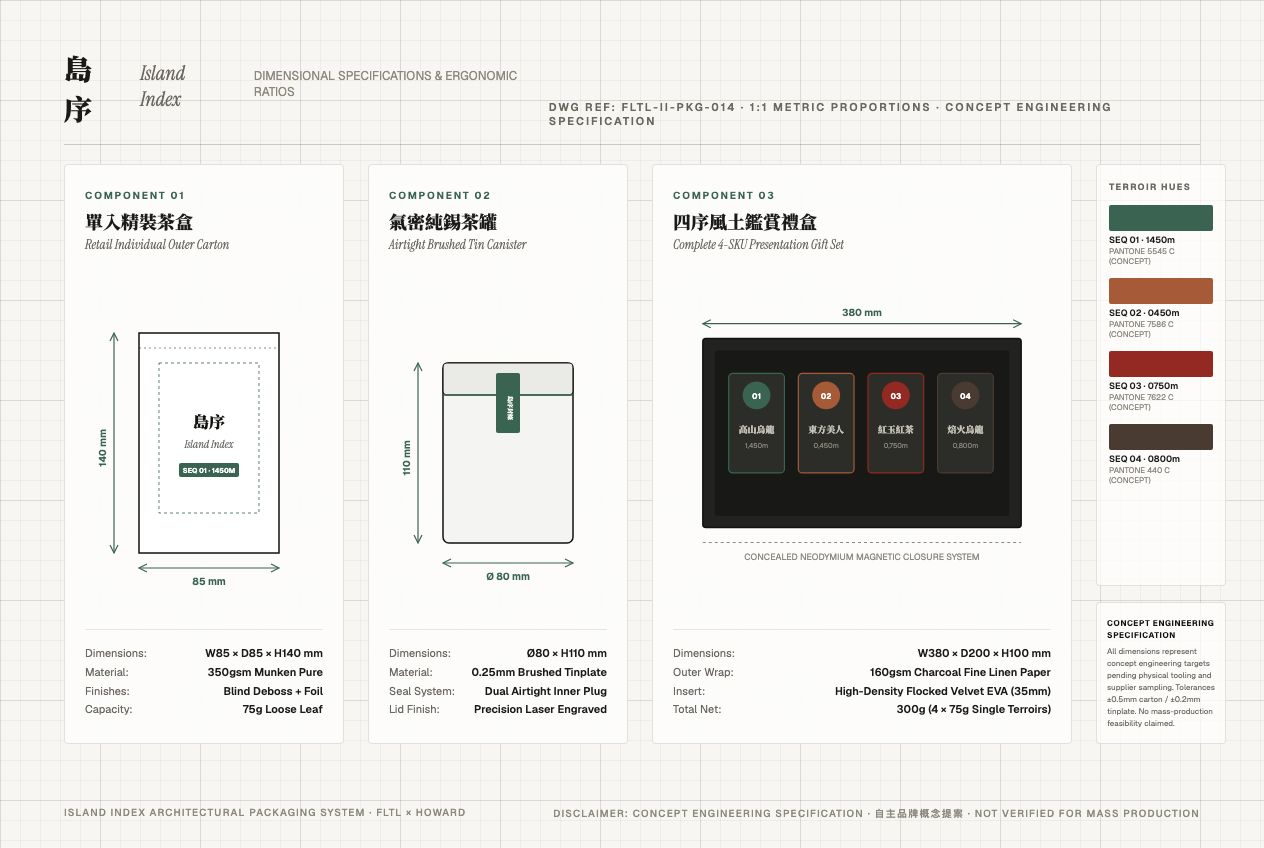
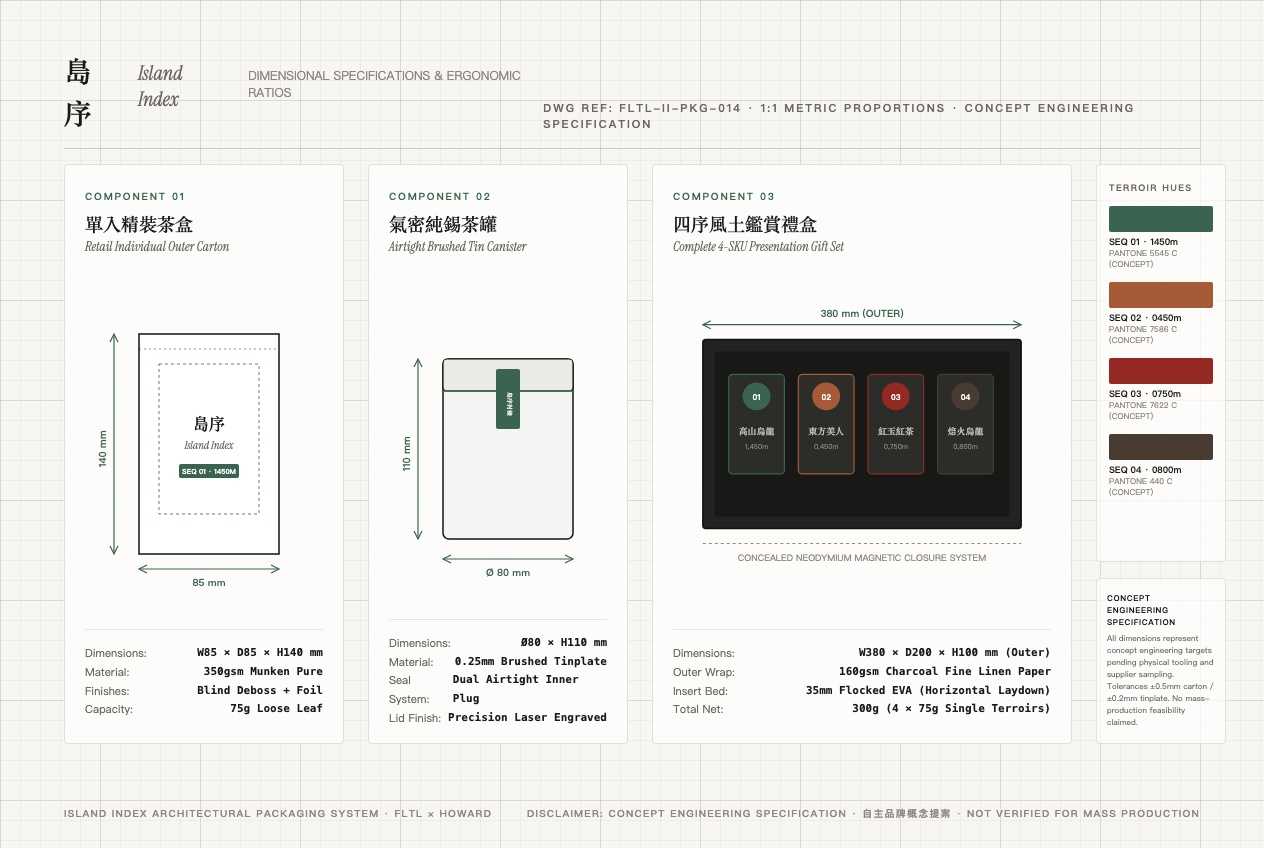
fix(brand): final engineering consistency verification for gift box layout and SKU naming
- Clarify gift box W380xD200xH100mm as outer dimensions with horizontal laydown cradle fit in SHOT 14, PRODUCT_AUDIT.md
- Standardize SEQ 04 product name strictly as 焙火烏龍 (Roasted Oolong) across case study, clarifying charcoal roasting as craft process
- Update SHOT 14 render and master visual contact sheet

diff --git a/brand/island-index/assets/mockups/shot-14-scale-proportions.html b/brand/island-index/assets/mockups/shot-14-scale-proportions.html
@@ -271,7 +271,7 @@
           <line x1="30" y1="40" x2="350" y2="40" stroke="#3A6351" stroke-width="1.2" />
           <polyline points="38,36 30,40 38,44" fill="none" stroke="#3A6351" stroke-width="1.2" />
           <polyline points="342,36 350,40 342,44" fill="none" stroke="#3A6351" stroke-width="1.2" />
-          <text x="190" y="32" font-family="'Geist', sans-serif" font-size="10" font-weight="700" fill="#3A6351" text-anchor="middle">380 mm</text>
+          <text x="190" y="32" font-family="'Geist', sans-serif" font-size="10" font-weight="700" fill="#3A6351" text-anchor="middle">380 mm (OUTER)</text>
 
           <!-- Box Outer Form -->
           <rect x="30" y="55" width="320" height="190" rx="3" fill="#222220" stroke="#121210" stroke-width="1.5" />
@@ -315,9 +315,9 @@
       </div>
 
       <div class="spec-table">
-        <div class="spec-row"><span class="spec-k">Dimensions:</span><span class="spec-v">W380 × D200 × H100 mm</span></div>
+        <div class="spec-row"><span class="spec-k">Dimensions:</span><span class="spec-v">W380 × D200 × H100 mm (Outer)</span></div>
         <div class="spec-row"><span class="spec-k">Outer Wrap:</span><span class="spec-v">160gsm Charcoal Fine Linen Paper</span></div>
-        <div class="spec-row"><span class="spec-k">Insert:</span><span class="spec-v">High-Density Flocked Velvet EVA (35mm)</span></div>
+        <div class="spec-row"><span class="spec-k">Insert Bed:</span><span class="spec-v">35mm Flocked EVA (Horizontal Laydown)</span></div>
         <div class="spec-row"><span class="spec-k">Total Net:</span><span class="spec-v">300g (4 × 75g Single Terroirs)</span></div>
       </div>
     </div>

diff --git a/brand/island-index/index.html b/brand/island-index/index.html
@@ -372,7 +372,7 @@
               <h3 class="sku-name-zh">焙火烏龍</h3>
               <div class="sku-name-en">Roasted Oolong</div>
               <p style="font-size: 12px; color: var(--text-secondary); line-height: 1.6; margin-bottom: 16px;">
-                <span class="lang-zh">鹿谷凍頂正統龍眼木炭焙烏龍。經中度發酵與多道文火細焙，茶湯溫潤醇厚，蘊含炒麥、焦糖與熟果沉香。</span>
+                <span class="lang-zh">鹿谷凍頂正統焙火烏龍。傳承龍眼木炭火慢焙工藝，經中度發酵與多道文火細焙，茶湯溫潤醇厚，蘊含炒麥、焦糖與熟果沉香。</span>
                 <span class="lang-en">Traditional longan charcoal roasted oolong from Dongding, Lugu. Slow gentle roasting develops warm caramel malt, roasted timber, and deep stone fruit finish.</span>
               </p>
               <div class="sku-specs-list">

diff --git a/brand/island-index/PRODUCT_AUDIT.md b/brand/island-index/PRODUCT_AUDIT.md
@@ -25,7 +25,7 @@
 7. **防偽與裝飾戳記界定 (Graphic Seals & Disclaimers)**：
    包裝與圖稿中所出現之「島序」、「極選」或裝飾印鑑，純屬平面視覺編排與防偽美學呈現（Decorative Graphic Seals），絕非經農業部茶葉改良場、產銷履歷、有機驗證、ISO 認證或競賽特等獎之法定驗證背書。所有相關數值與標籤一律標註為「Concept Specification / 概念規格」。
 8. **包裝工程規格與公差界定 (Concept Engineering Specification)**：
-   外盒尺寸（W85 × D85 × H140 mm）、圓罐外徑及高度（Ø80 × H110 mm，容裝 75g 散茶）、四入禮盒尺寸（W380 × D200 × H100 mm，容納四罐總淨重 300g）等幾何規格，均為設計提案階段之 **「概念工程規格（Concept Engineering Specification）」**。雖經空間幾何與安全間隙（單入四周間隙 2.5mm、禮盒內襯槽距 8–10mm）核算吻合，但在取得實體刀模打樣與包裝製造商物理量產確認前，嚴禁宣稱已驗證量產可行性。
+   外盒尺寸（W85 × D85 × H140 mm）、圓罐外徑及高度（Ø80 × H110 mm，容裝 75g 散茶）、四入禮盒外尺寸（W380 × D200 × H100 mm，四罐臥式橫放陳列，內部淨空間約 W360 × D180 × H90 mm，容納四罐總淨重 300g）等幾何規格，均為設計提案階段之 **「概念工程規格（Concept Engineering Specification）」**。雖經空間幾何與安全間隙（單入四周間隙 2.5mm、禮盒內襯槽距 8–10mm、罐身至盒蓋間距 10mm）核算吻合，但在取得實體刀模打樣與包裝製造商物理量產確認前，嚴禁宣稱已驗證量產可行性。
 9. **電商概念定價界定 (Conceptual E-Commerce Pricing)**：
    數位旗艦店 UI 所標示之單入售價 `NT$ 1,280` 明確標註為 **「概念定價（Concept Price）」**，僅為完整電商介面與購物流程體驗之情境模擬，絕非真實商業流通之上市售價。
 
@@ -49,7 +49,7 @@
 | **SEQ 04 品種** | 凍頂烏龍 | 凍頂青心烏龍 | 釐清烏龍茶為工藝名稱，品種基底為青心烏龍 |
 | **SEQ 04 工藝** | 焙火 85% / 炭焙 36 小時 (暗示已化驗) | 傳統龍眼木炭焙慢火覆焙 (Roast Level ~85%) | 標註為【概念工藝參數】，註記炭焙時長為示範工藝描述 |
 | **色票規範** | 聲稱逐一對照 Pantone 驗證一致性 | 標記為概念色彩規劃參考 (Conceptual Pantone Palette) | 尚未經印刷廠分光儀實測打樣，明確標註為概念參考，不得冒稱已完成權威驗證 |
-| **包裝尺寸** | 易被誤認為已投入工業模具量產 | 標註為概念工程規格 (Concept Engineering Specification) | 外盒 W85×D85×H140mm、圓罐 Ø80×H110mm、四入禮盒 W380×D200×H100mm，容積公差合理但未經工廠實體打樣，不宣稱量產可行性驗證 |
+| **包裝尺寸** | 易被誤認為已投入工業模具量產 | 標註為概念工程規格 (Concept Engineering Specification) | 外盒 W85×D85×H140mm、圓罐 Ø80×H110mm、四入禮盒外尺寸 W380×D200×H100mm（橫放臥式陳列，內淨空約 W360×D180×H90mm），容積公差合理但未經工廠實體打樣，不宣稱量產可行性驗證 |
 | **電商定價** | NT$ 1,280 易被誤認為正式上市定價 | 明確標示為概念定價 (Concept Price) | 單罐 75g 售價 NT$ 1,280 為概念展示模擬數值，未經商業流通定價驗證 |
 
 ---
